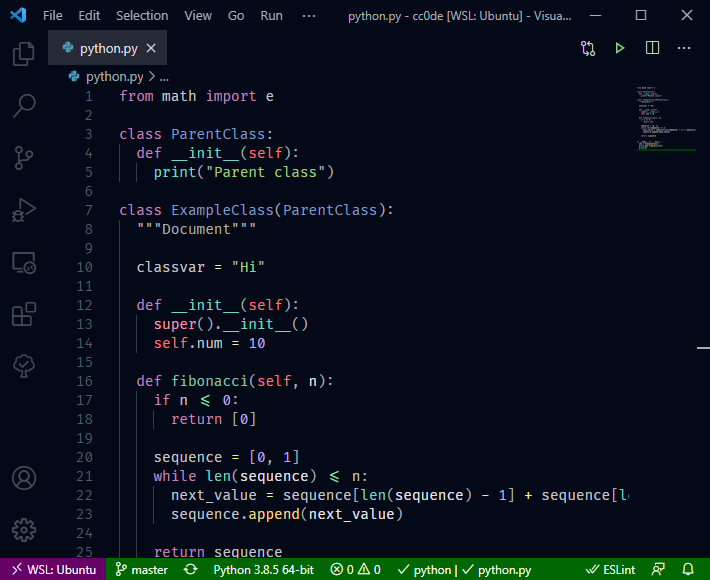
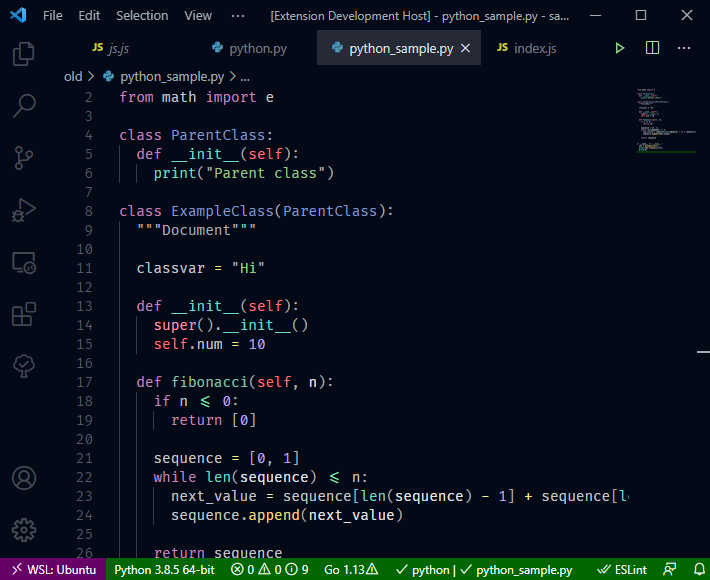
string color

diff --git a/src/token/semantic_regular.ts b/src/token/semantic_regular.ts
@@ -23,5 +23,5 @@ export const semanticRules: semanticRule = {
   type: /* ......................... */ { foreground: color.DarkTurquoise },
   "type.defaultLibrary": /* ........ */ { foreground: color.PinkSalmon, __italic: true },
   operator: /* ..................... */ { foreground: color.Jonquil },
-  string: /* ....................... */ { foreground: color.Feijoa },
+  string: /* ....................... */ { foreground: color.Olivine },
 };

diff --git a/src/common/colors.ts b/src/common/colors.ts
@@ -17,7 +17,7 @@ export const tokenColorCode = {
   Bermuda: /* .............. */ "#70dbc1",
   Bittersweet: /* .......... */ "#ff7575",
   DarkTurquoise: /* ........ */ "#02cad4",
-  Feijoa: /* ............... */ "#9ed279",
+  Olivine: /* .............. */ "#9ec78a",
   FrenchGray: /* ........... */ mix("c5"),
   GoldenSand: /* ........... */ "#f5d780",
   IndianKhaki: /* .......... */ "#c3ab85",

diff --git a/dist/token/textmate_regular.js b/dist/token/textmate_regular.js
@@ -202,7 +202,7 @@ export const textmateRules = [
         name: "String",
         scope: ["source.elixir.embedded.source", "storage.modifier.import.java", "string.quoted.double", "string"],
         settings: {
-            foreground: color.Feijoa,
+            foreground: color.Olivine,
         },
     },
     {

diff --git a/dist/token/semantic_regular.js b/dist/token/semantic_regular.js
@@ -18,5 +18,5 @@ export const semanticRules = {
     type: { foreground: color.DarkTurquoise },
     "type.defaultLibrary": { foreground: color.PinkSalmon, __italic: true },
     operator: { foreground: color.Jonquil },
-    string: { foreground: color.Feijoa },
+    string: { foreground: color.Olivine },
 };

diff --git a/src/token/textmate_regular.ts b/src/token/textmate_regular.ts
@@ -213,7 +213,7 @@ export const textmateRules: textmateRule[] = [
     name: "String",
     scope: ["source.elixir.embedded.source", "storage.modifier.import.java", "string.quoted.double", "string"],
     settings: {
-      foreground: color.Feijoa,
+      foreground: color.Olivine,
     },
   },
   {

diff --git a/dist/common/colors.js b/dist/common/colors.js
@@ -10,7 +10,7 @@ export const tokenColorCode = {
     Bermuda: "#70dbc1",
     Bittersweet: "#ff7575",
     DarkTurquoise: "#02cad4",
-    Feijoa: "#9ed279",
+    Olivine: "#9ec78a",
     FrenchGray: mix("c5"),
     GoldenSand: "#f5d780",
     IndianKhaki: "#c3ab85",

diff --git a/README.md b/README.md
@@ -1,6 +1,6 @@
 # [Night Coder](https://marketplace.visualstudio.com/items?itemName=a5hk.night-coder)
 
-A dark theme for Night Coders. It has two versions: Night Coder and Night Coder Contrast. [Comparison](#Comparison)
+A dark theme for Night Coders. Contrast and italic variants are also available.
 
 ## Screenshots
 
@@ -15,12 +15,6 @@ A dark theme for Night Coders. It has two versions: Night Coder and Night Coder 
 ### Python
 
 ![python](screenshot/python.png)
-
-### Comparison
-
-![regular](screenshot/regular.png)
-
-![contrast](screenshot/contrast.png)
 
 ## License
 

diff --git a/CHANGELOG.md b/CHANGELOG.md
@@ -1,5 +1,9 @@
 # Changelog
 
+## 2.3.0
+
+- A slightly different and more readable color for strings
+
 ## 2.2.1
 
 - Improved list backgrounds / foregrounds
